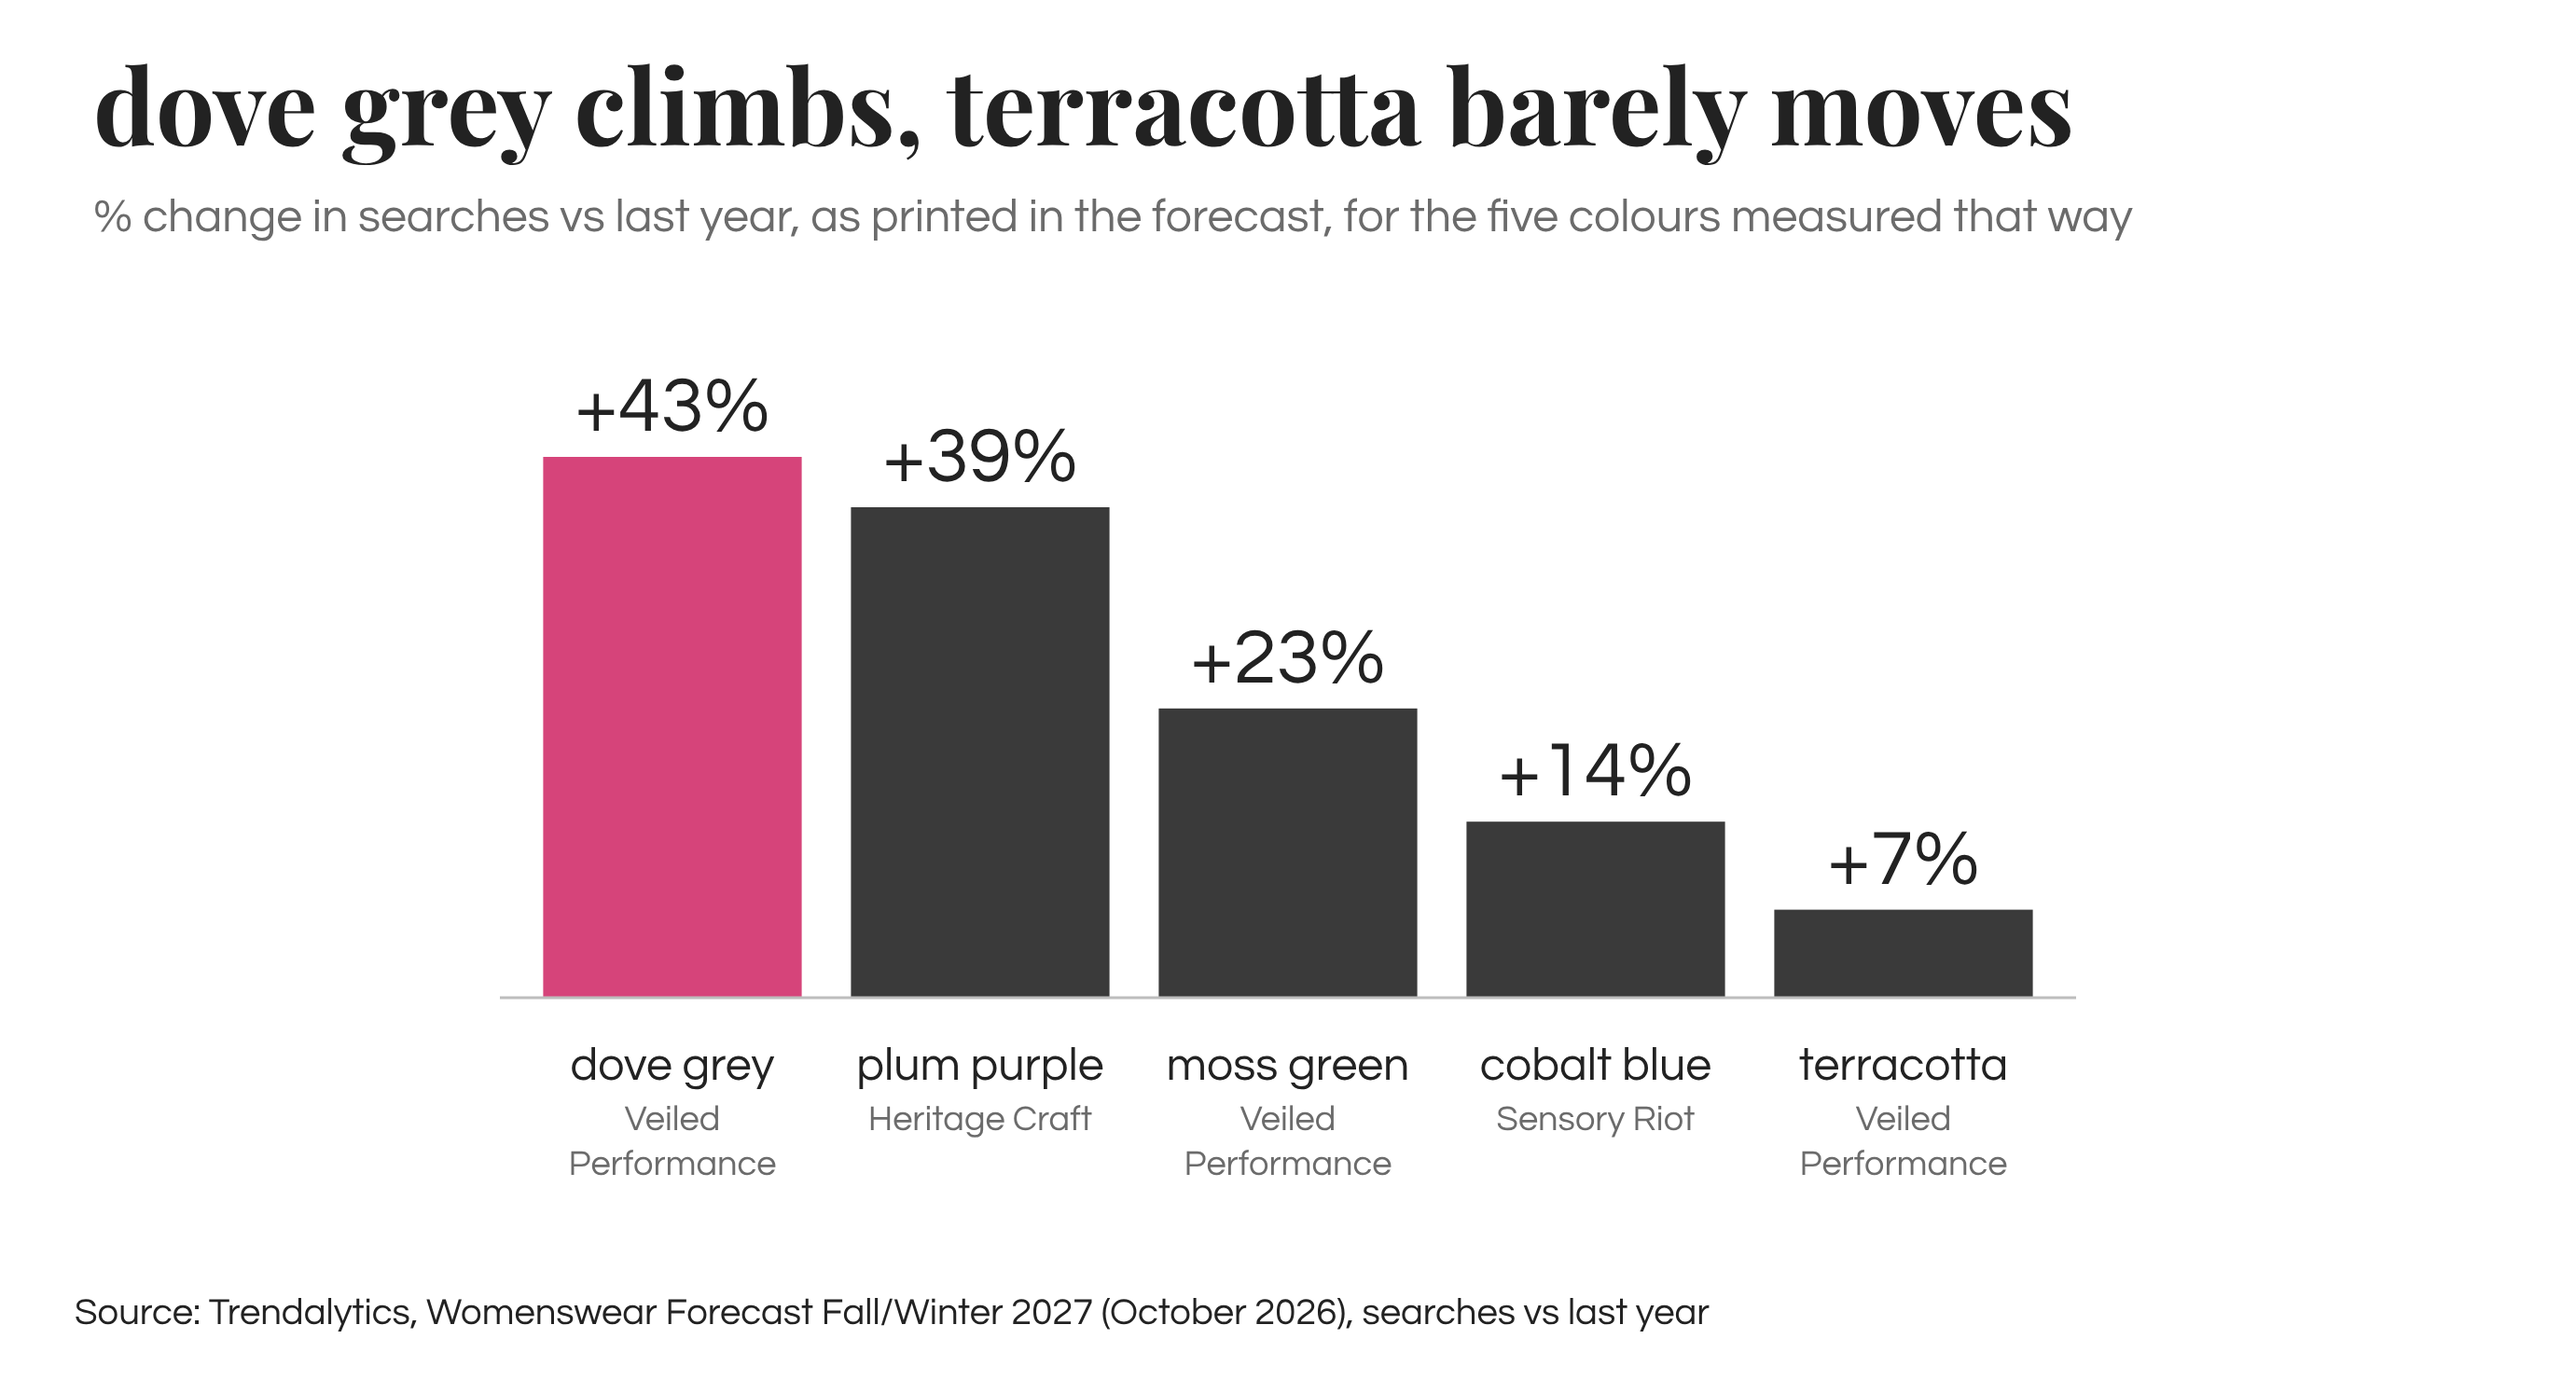
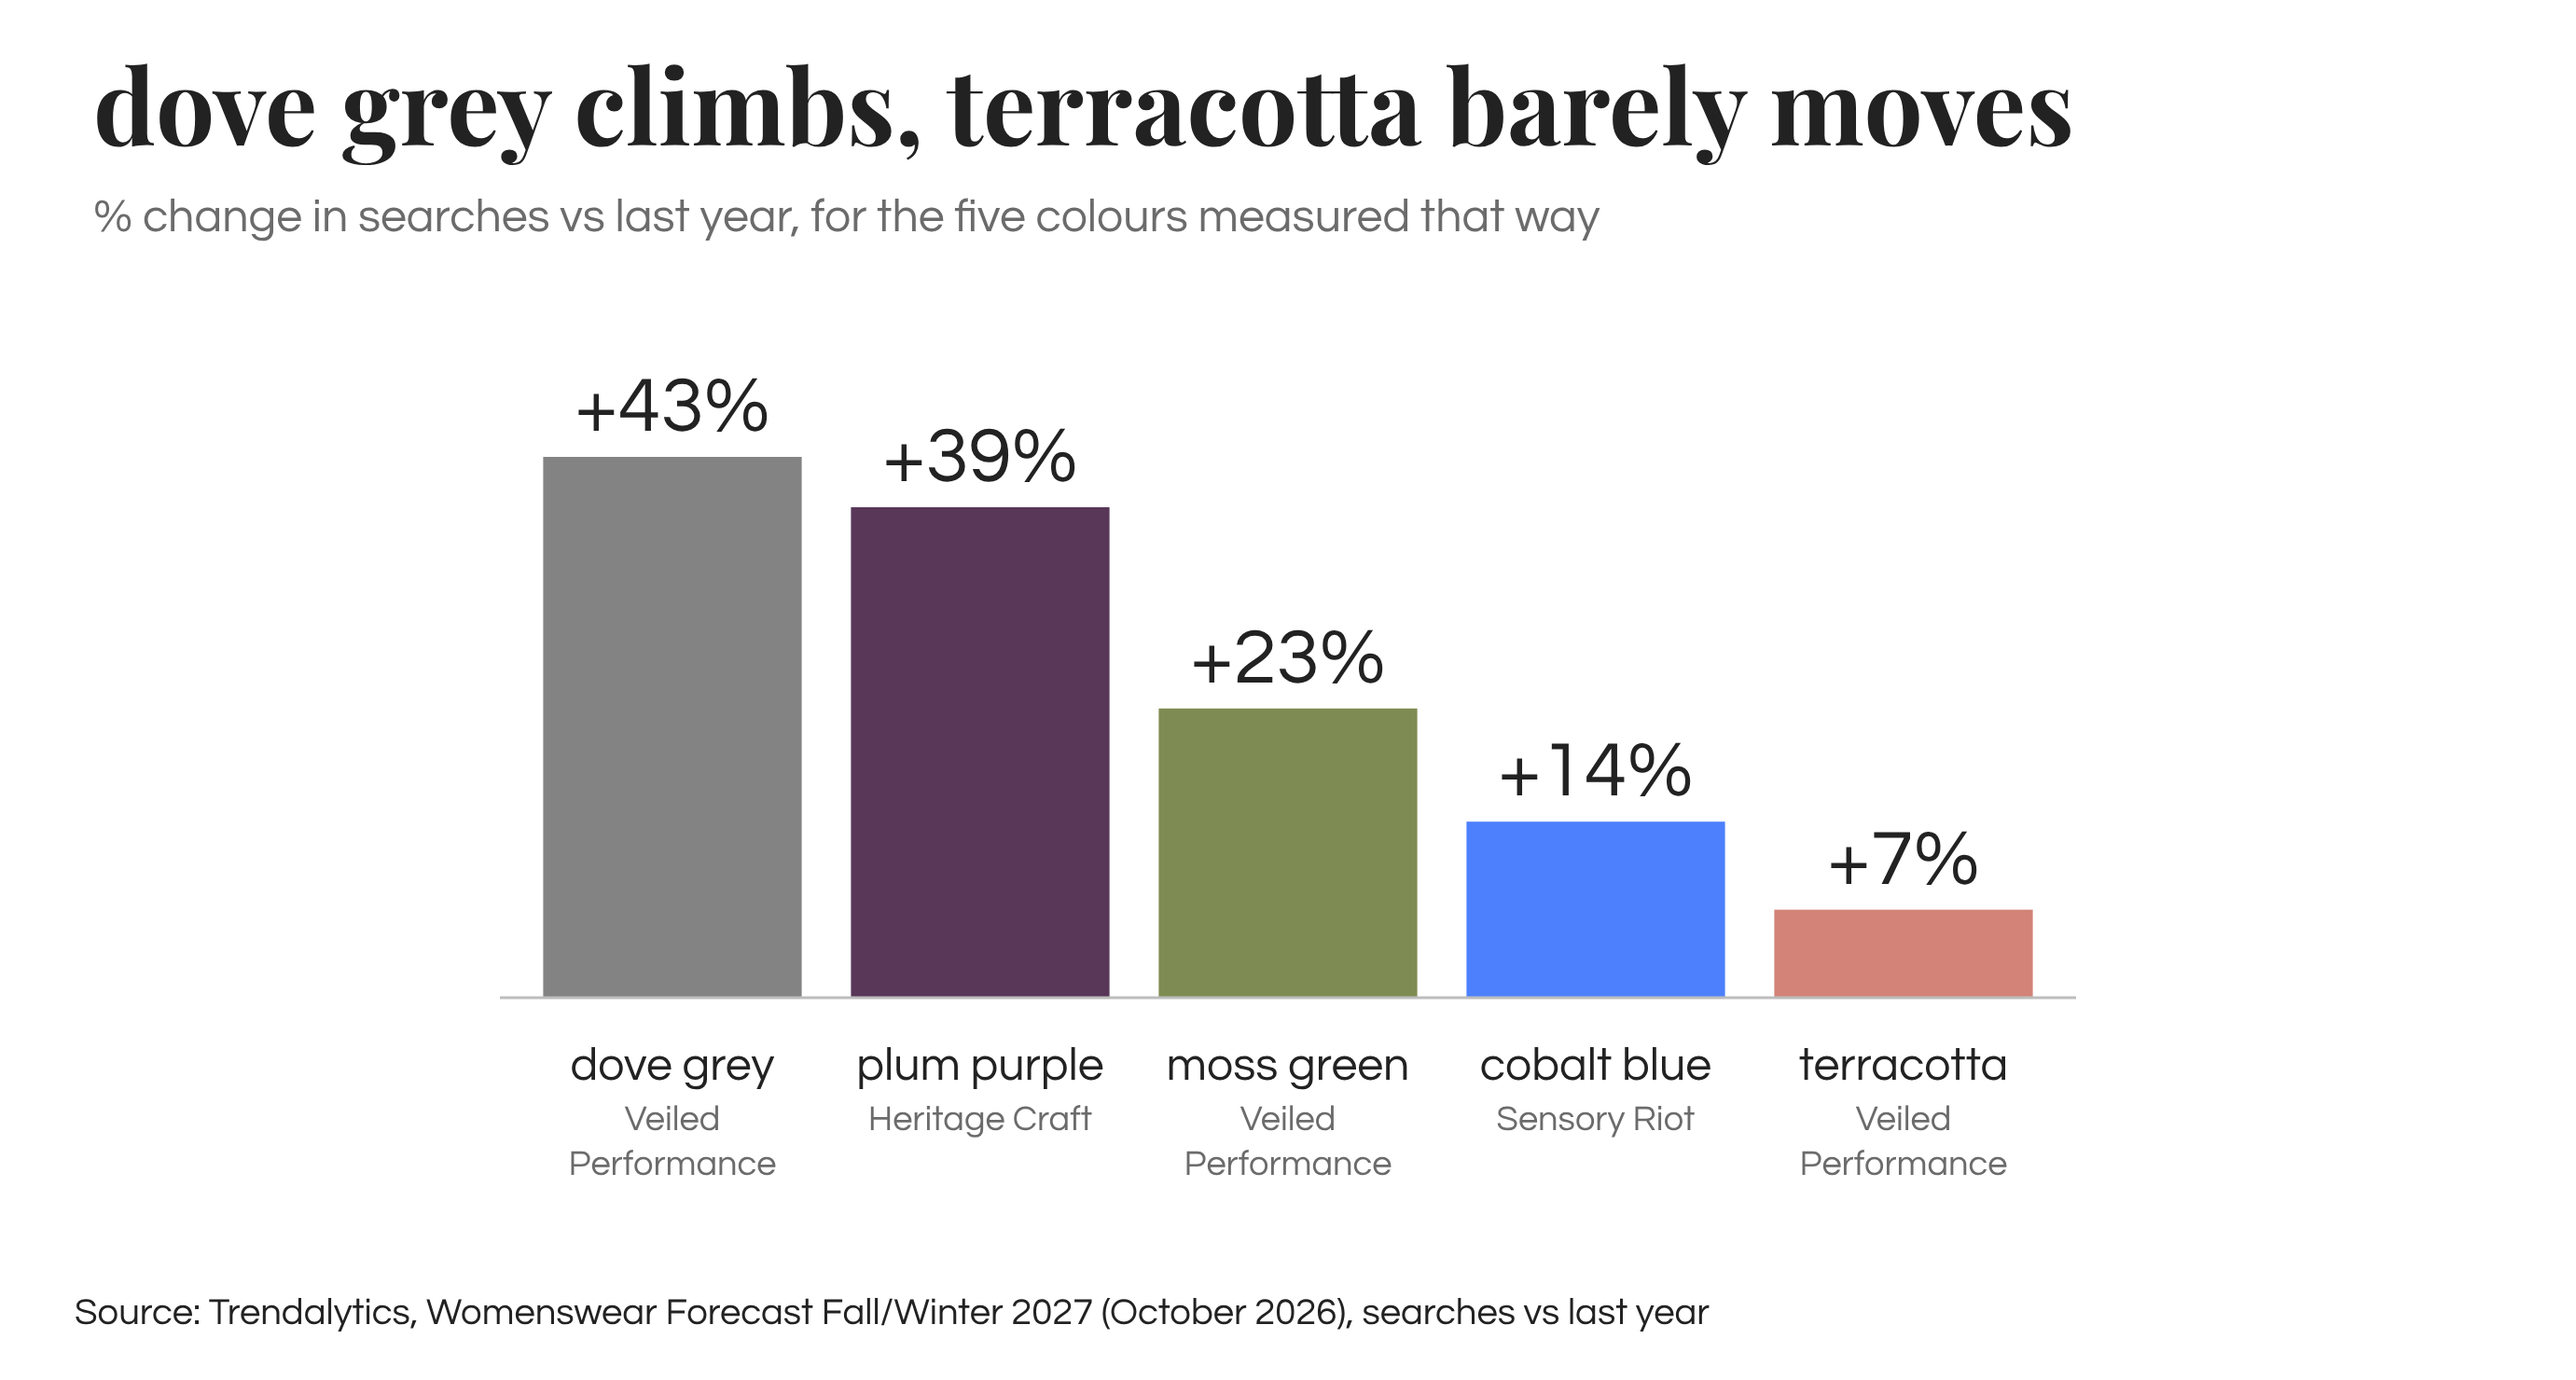
Colour the FW27 colour charts by swatch and shorten subtitles
Claude-Session: https://claude.ai/code/session_01N7aeZaURyexD9YLQTk163X

Changed region(s): [[0.1868, 0.3108, 0.8096, 0.7459], [0.3114, 0.1243, 0.8096, 0.1865]]

diff --git a/drafts/fw27-forecast-charts/09-colour-search-growth.html b/drafts/fw27-forecast-charts/09-colour-search-growth.html
@@ -1,26 +1,26 @@
 <!doctype html><html><head><meta charset="utf-8"><link href="https://fonts.googleapis.com/css2?family=Playfair+Display:ital,wght@0,500;0,700;1,500&family=Questrial&display=swap" rel="stylesheet"><style>body{margin:0;background:#fff}</style></head><body><svg xmlns="http://www.w3.org/2000/svg" viewBox="0 0 1381 740" width="1381" height="740">
 <rect width="1381" height="740" fill="#FFFFFF"/>
 <text x="50" y="78" font-family="'Playfair Display', Georgia, serif" font-weight="700" font-size="56" fill="#222222">dove grey climbs, terracotta barely moves</text>
-<text x="50" y="124" font-family="'Century Gothic', 'Questrial', 'Avenir', sans-serif" font-size="25" fill="#6B6B6B">% change in searches vs last year, as printed in the forecast, for the five colours measured that way</text>
-<rect x="291.2" y="245.0" width="138.6" height="290.0" fill="#D6447A"/>
+<text x="50" y="124" font-family="'Century Gothic', 'Questrial', 'Avenir', sans-serif" font-size="25" fill="#6B6B6B">% change in searches vs last year, for the five colours measured that way</text>
+<rect x="291.2" y="245.0" width="138.6" height="290.0" fill="#838384"/>
 <text x="360.5" y="231.0" text-anchor="middle" font-family="'Century Gothic', 'Questrial', 'Avenir', sans-serif" font-size="42" fill="#222222">+43%</text>
 <text x="360.5" y="579" text-anchor="middle" font-family="'Century Gothic', 'Questrial', 'Avenir', sans-serif" font-size="25" fill="#222222">dove grey</text>
 <text x="360.5" y="606" text-anchor="middle" font-family="'Century Gothic', 'Questrial', 'Avenir', sans-serif" font-size="19" fill="#6B6B6B">Veiled</text>
 <text x="360.5" y="630" text-anchor="middle" font-family="'Century Gothic', 'Questrial', 'Avenir', sans-serif" font-size="19" fill="#6B6B6B">Performance</text>
-<rect x="456.2" y="272.0" width="138.6" height="263.0" fill="#3A3A3A"/>
+<rect x="456.2" y="272.0" width="138.6" height="263.0" fill="#583759"/>
 <text x="525.5" y="258.0" text-anchor="middle" font-family="'Century Gothic', 'Questrial', 'Avenir', sans-serif" font-size="42" fill="#222222">+39%</text>
 <text x="525.5" y="579" text-anchor="middle" font-family="'Century Gothic', 'Questrial', 'Avenir', sans-serif" font-size="25" fill="#222222">plum purple</text>
 <text x="525.5" y="606" text-anchor="middle" font-family="'Century Gothic', 'Questrial', 'Avenir', sans-serif" font-size="19" fill="#6B6B6B">Heritage Craft</text>
-<rect x="621.2" y="379.9" width="138.6" height="155.1" fill="#3A3A3A"/>
+<rect x="621.2" y="379.9" width="138.6" height="155.1" fill="#7E8C53"/>
 <text x="690.5" y="365.9" text-anchor="middle" font-family="'Century Gothic', 'Questrial', 'Avenir', sans-serif" font-size="42" fill="#222222">+23%</text>
 <text x="690.5" y="579" text-anchor="middle" font-family="'Century Gothic', 'Questrial', 'Avenir', sans-serif" font-size="25" fill="#222222">moss green</text>
 <text x="690.5" y="606" text-anchor="middle" font-family="'Century Gothic', 'Questrial', 'Avenir', sans-serif" font-size="19" fill="#6B6B6B">Veiled</text>
 <text x="690.5" y="630" text-anchor="middle" font-family="'Century Gothic', 'Questrial', 'Avenir', sans-serif" font-size="19" fill="#6B6B6B">Performance</text>
-<rect x="786.2" y="440.6" width="138.6" height="94.4" fill="#3A3A3A"/>
+<rect x="786.2" y="440.6" width="138.6" height="94.4" fill="#4C80FD"/>
 <text x="855.5" y="426.6" text-anchor="middle" font-family="'Century Gothic', 'Questrial', 'Avenir', sans-serif" font-size="42" fill="#222222">+14%</text>
 <text x="855.5" y="579" text-anchor="middle" font-family="'Century Gothic', 'Questrial', 'Avenir', sans-serif" font-size="25" fill="#222222">cobalt blue</text>
 <text x="855.5" y="606" text-anchor="middle" font-family="'Century Gothic', 'Questrial', 'Avenir', sans-serif" font-size="19" fill="#6B6B6B">Sensory Riot</text>
-<rect x="951.2" y="487.8" width="138.6" height="47.2" fill="#3A3A3A"/>
+<rect x="951.2" y="487.8" width="138.6" height="47.2" fill="#D38377"/>
 <text x="1020.5" y="473.8" text-anchor="middle" font-family="'Century Gothic', 'Questrial', 'Avenir', sans-serif" font-size="42" fill="#222222">+7%</text>
 <text x="1020.5" y="579" text-anchor="middle" font-family="'Century Gothic', 'Questrial', 'Avenir', sans-serif" font-size="25" fill="#222222">terracotta</text>
 <text x="1020.5" y="606" text-anchor="middle" font-family="'Century Gothic', 'Questrial', 'Avenir', sans-serif" font-size="19" fill="#6B6B6B">Veiled</text>

diff --git a/drafts/fw27-forecast-charts/08-colour-search-volume.html b/drafts/fw27-forecast-charts/08-colour-search-volume.html
@@ -1,25 +1,25 @@
 <!doctype html><html><head><meta charset="utf-8"><link href="https://fonts.googleapis.com/css2?family=Playfair+Display:ital,wght@0,500;0,700;1,500&family=Questrial&display=swap" rel="stylesheet"><style>body{margin:0;background:#fff}</style></head><body><svg xmlns="http://www.w3.org/2000/svg" viewBox="0 0 1009 740" width="1009" height="740">
 <rect width="1009" height="740" fill="#FFFFFF"/>
 <text x="50" y="78" font-family="'Playfair Display', Georgia, serif" font-weight="700" font-size="56" fill="#222222">marigold is the most searched</text>
-<text x="50" y="124" font-family="'Century Gothic', 'Questrial', 'Avenir', sans-serif" font-size="25" fill="#6B6B6B">search volume as printed in the forecast, in thousands of searches, for the five colours measured that way</text>
-<rect x="105.2" y="245.0" width="138.6" height="290.0" fill="#D6447A"/>
+<text x="50" y="124" font-family="'Century Gothic', 'Questrial', 'Avenir', sans-serif" font-size="25" fill="#6B6B6B">search volume, in thousands of searches, for the five colours measured that way</text>
+<rect x="105.2" y="245.0" width="138.6" height="290.0" fill="#DFAA4F"/>
 <text x="174.5" y="231.0" text-anchor="middle" font-family="'Century Gothic', 'Questrial', 'Avenir', sans-serif" font-size="42" fill="#222222">126k</text>
 <text x="174.5" y="579" text-anchor="middle" font-family="'Century Gothic', 'Questrial', 'Avenir', sans-serif" font-size="25" fill="#222222">marigold</text>
 <text x="174.5" y="606" text-anchor="middle" font-family="'Century Gothic', 'Questrial', 'Avenir', sans-serif" font-size="19" fill="#6B6B6B">Veiled</text>
 <text x="174.5" y="630" text-anchor="middle" font-family="'Century Gothic', 'Questrial', 'Avenir', sans-serif" font-size="19" fill="#6B6B6B">Performance</text>
-<rect x="270.2" y="297.9" width="138.6" height="237.1" fill="#3A3A3A"/>
+<rect x="270.2" y="297.9" width="138.6" height="237.1" fill="#927EC3"/>
 <text x="339.5" y="283.9" text-anchor="middle" font-family="'Century Gothic', 'Questrial', 'Avenir', sans-serif" font-size="42" fill="#222222">103k</text>
 <text x="339.5" y="579" text-anchor="middle" font-family="'Century Gothic', 'Questrial', 'Avenir', sans-serif" font-size="25" fill="#222222">lilac</text>
 <text x="339.5" y="606" text-anchor="middle" font-family="'Century Gothic', 'Questrial', 'Avenir', sans-serif" font-size="19" fill="#6B6B6B">Sensory Riot</text>
-<rect x="435.2" y="341.7" width="138.6" height="193.3" fill="#3A3A3A"/>
+<rect x="435.2" y="341.7" width="138.6" height="193.3" fill="#FF278A"/>
 <text x="504.5" y="327.7" text-anchor="middle" font-family="'Century Gothic', 'Questrial', 'Avenir', sans-serif" font-size="42" fill="#222222">84k</text>
 <text x="504.5" y="579" text-anchor="middle" font-family="'Century Gothic', 'Questrial', 'Avenir', sans-serif" font-size="25" fill="#222222">fuchsia</text>
 <text x="504.5" y="606" text-anchor="middle" font-family="'Century Gothic', 'Questrial', 'Avenir', sans-serif" font-size="19" fill="#6B6B6B">Sensory Riot</text>
-<rect x="600.2" y="403.8" width="138.6" height="131.2" fill="#3A3A3A"/>
+<rect x="600.2" y="403.8" width="138.6" height="131.2" fill="#254117"/>
 <text x="669.5" y="389.8" text-anchor="middle" font-family="'Century Gothic', 'Questrial', 'Avenir', sans-serif" font-size="42" fill="#222222">57k</text>
 <text x="669.5" y="579" text-anchor="middle" font-family="'Century Gothic', 'Questrial', 'Avenir', sans-serif" font-size="25" fill="#222222">forest green</text>
 <text x="669.5" y="606" text-anchor="middle" font-family="'Century Gothic', 'Questrial', 'Avenir', sans-serif" font-size="19" fill="#6B6B6B">Heritage Craft</text>
-<rect x="765.2" y="454.4" width="138.6" height="80.6" fill="#3A3A3A"/>
+<rect x="765.2" y="454.4" width="138.6" height="80.6" fill="#7B3330"/>
 <text x="834.5" y="440.4" text-anchor="middle" font-family="'Century Gothic', 'Questrial', 'Avenir', sans-serif" font-size="42" fill="#222222">35k</text>
 <text x="834.5" y="579" text-anchor="middle" font-family="'Century Gothic', 'Questrial', 'Avenir', sans-serif" font-size="25" fill="#222222">dark red</text>
 <text x="834.5" y="606" text-anchor="middle" font-family="'Century Gothic', 'Questrial', 'Avenir', sans-serif" font-size="19" fill="#6B6B6B">Heritage Craft</text>

diff --git a/drafts/fw27-forecast-charts/build_charts.py b/drafts/fw27-forecast-charts/build_charts.py
@@ -69,9 +69,9 @@ charts = []
 # 1. Search volume, every item that comes with one (thousands)
 vol = [('marigold', 126, VP), ('lilac', 103, SR), ('fuchsia', 84, SR), ('forest green', 57, HC), ('dark red', 35, HC)]
 colour_vol = bar_chart('08-colour-search-volume', 'marigold is the most searched',
-    'search volume as printed in the forecast, in thousands of searches, for the five colours measured that way',
+    'search volume, in thousands of searches, for the five colours measured that way',
     [(l, v) for l, v, _ in vol], SRC + ', search volume', fmt=lambda v: f'{round(v)}k',
-    highlight=0, sub=[a for _, _, a in vol])
+    highlight=0, sub=[a for _, _, a in vol], colours=['#DFAA4F', '#927EC3', '#FF278A', '#254117', '#7B3330'])
 
 # 2. Year on year change in searches
 gro = [('fringe skirts', 71, SR), ('paisley scarves', 64, HC), ('jacquard jackets', 61, HC),
@@ -108,9 +108,9 @@ charts.append(bar_chart('05-paris-cross-check', 'what the spring runway can alre
 charts.append(colour_vol)
 cgro = [('dove grey', 43, VP), ('plum purple', 39, HC), ('moss green', 23, VP), ('cobalt blue', 14, SR), ('terracotta', 7, VP)]
 charts.append(bar_chart('09-colour-search-growth', 'dove grey climbs, terracotta barely moves',
-    '% change in searches vs last year, as printed in the forecast, for the five colours measured that way',
+    '% change in searches vs last year, for the five colours measured that way',
     [(l, v) for l, v, _ in cgro], SRC + ', searches vs last year', fmt=lambda v: f'+{round(v)}%',
-    highlight=0, sub=[a for _, _, a in cgro]))
+    highlight=0, sub=[a for _, _, a in cgro], colours=['#838384', '#583759', '#7E8C53', '#4C80FD', '#D38377']))
 fam = [('brown & beige', 11, 'chestnut brown'), ('green & olive', 8, 'forest, moss'), ('grey', 7, 'dove grey'),
        ('pink', 5, 'fuchsia'), ('blue', 5, 'cobalt'), ('yellow & gold', 5, 'marigold, chartreuse'),
        ('orange & rust', 3, 'terracotta'), ('red', 2, 'russet'), ('purple', 1, 'plum, lilac')]
